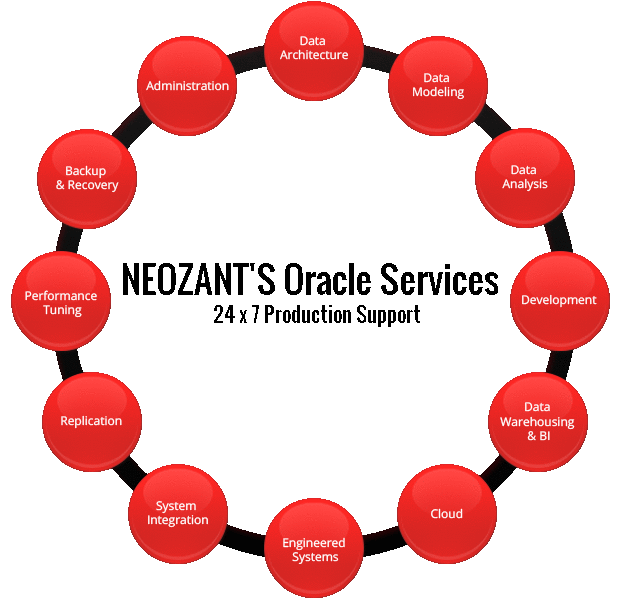
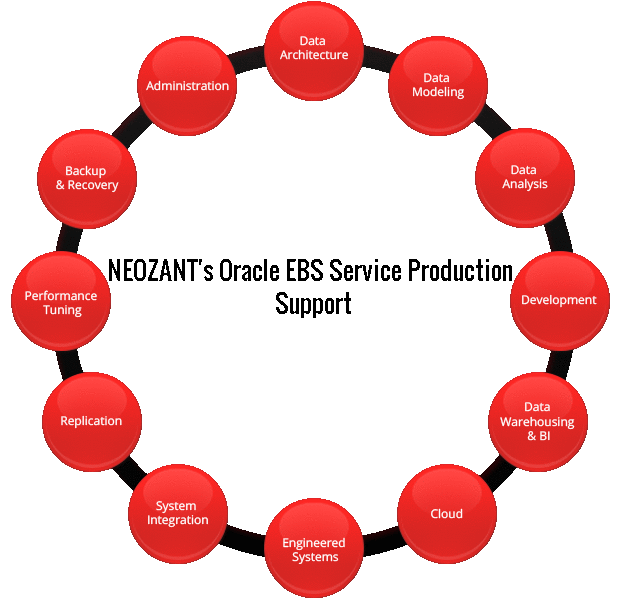
Changes made as suggested by RV

Changed region(s): [[0.1522, 0.4193, 0.8221, 0.5391]]

diff --git a/index.html b/index.html
@@ -371,23 +371,20 @@
 			<div class="carousel-inner">
 			
 			    <div class="item erp">
-					<img src="jns_assets/banner/slide_erp_edited.png" alt="">
+					<img src="jns_assets/banner/slide_erp.png" alt="">
 					<div class="container">
 						<div class="carousel-caption-erp">
-							<h1>NEOZANT helps you Transform Your Business with Oracle Applications.</h1>
+							<h1>We help transform your Oracle E-Business Suite.</h1>
 							<p class="lead">
-								NEOZANT is delivering ERP solutions for clients using Oracle Applications and provides a complete 
-								Oracle support solution for customers.NEOZANT has experience with all of these facets of 
-								manufacturing in many industries to help clients improve operations.NEOZANT helps the distributor 
-								to make the move smooth and cost effective to Oracle’s powerful Application Solutions
-
+								NEOZANTprovides full-service Oracle Consulting with expertise in delivering Business and Analytics solutions.
+								We leverage the Oracle Toolbox to serve a diverse client-base reach their goals.
 							</p>
 							
 						</div>
 					</div>
 				</div>
 				
-				<div class="item">
+				<!-- <div class="item">
 					<img src="jns_assets/banner/slide_1.png" alt="">
 					<div class="container">
 						<div class="carousel-caption">
@@ -397,7 +394,7 @@
 							</p>
 						</div>
 					</div>
-				</div>
+				</div> -->
 				<div class="item active">
 					<img src="jns_assets/banner/slide_2.png" alt="">
 					<div class="container">
@@ -411,7 +408,7 @@
 						</div>
 					</div>
 				</div>
-				<div class="item">
+				<!-- <div class="item">
 					<img src="jns_assets/banner/slide_3.png" alt="">
 					<div class="container">
 						<div class="carousel-caption">
@@ -422,7 +419,7 @@
 							
 						</div>
 					</div>
-				</div>
+				</div> -->
 			</div>
 			<a class="left carousel-control" href="#our_moto" data-slide="prev" style="color: rgb(82, 71, 71);">‹</a>
 			<a class="right carousel-control" href="#our_moto" data-slide="next" style="color: rgb(82, 71, 71);">›</a>
@@ -439,18 +436,35 @@
 				<div class="row-fluid" >
  
 				<div type="button" class="" data-toggle="collapse" data-target="#demo_1">
-				   <h4> Orcale Based Solutions:NEOZANT provides a complete Oracle support solution for customers
+				   <h4 style="border-style: outset;"> 
+				   
+				   Orcale Based Solutions:NEOZANT provides a complete Oracle support solution for customers
 					<img src="jns_assets/thumbnails/ORACLE_ERP.png" /> </h4>
 				</div>
 				  <div id="demo_1" class="collapse">
 				   <div class="row-fluid">
 					<ul class="thumbnails">
 					
-					<li class="span3">
-							<h4>ERP SOLUTIONS</h4>
-							<a href="#erp_solutions" class="thumbnail"> <img src="jns_assets/thumbnails/ORACLE_ERP.png" /> </a>
+											
+						<li class="span3">
+							<h4>IMPLEMENTATION</h4>
+							<a href="#erp_solutions" class="thumbnail"> <img src="jns_assets/proj12/DesignAndImplementation_size.png" /> </a>
 						</li>
 						
+						<li class="span3">
+							<h4>SUPPORT</h4>
+							<a href="#erp_solutions" class="thumbnail"> <img src="jns_assets/proj12/Customer_support_size.png" /> </a>
+						</li>
+						
+						<li class="span3">
+							<h4>Enterprise Advisory Services</h4>
+							<a href="#erp_solutions" class="thumbnail"> <img src="jns_assets/proj12/advisory_services_size.png" /> </a>
+						</li>
+						
+						<li class="span3">
+							<h4>Business Intelligence Services</h4>
+							<a href="#erp_solutions" class="thumbnail"> <img src="jns_assets/proj12/business_intelligence_size.png" /> </a>
+						</li>
 					</ul>
 					</div>
 				  </div>
@@ -462,7 +476,7 @@
 				<div class="row-fluid">
  
 				<div type="button" class="" data-toggle="collapse" data-target="#demo_2">
-				   <h4> DevOps solutions:Automated Task Scheduler and Tracker 
+				   <h4 style="border-style: outset;"> DevOps solutions:Automated Task Scheduler and Tracker 
 					<img src="jns_assets/thumbnails/DevOps.png" /> </h4>
 				</div>
 				  <div id="demo_2" class="collapse">
@@ -485,7 +499,7 @@
 				<div class="row-fluid">
  
 				<div type="button" class="" data-toggle="collapse" data-target="#demo_3">
-				   <h4> Retail based Inventory and Sales Solution
+				   <h4 style="border-style: outset;"> Retail based Inventory and Sales Solution
 					<img src="jns_assets/thumbnails/retail.png" /> </h4>
 				</div>
 				  <div id="demo_3" class="collapse">
@@ -511,9 +525,9 @@
 				
 				<div class="row-fluid">
  
-				<div type="button" class="" data-toggle="collapse" data-target="#demo_4">
-				   <h4> Gaming: Casual game with user engagement
-					<img src="jns_assets/thumbnails/games.png",float:right/> </h4> 
+				<div type="button" class="" data-toggle="collapse" data-target="#demo_4" style="border-style: outset;">
+				   <h4 > Gaming: Casual game with user engagement
+					<img src="jns_assets/thumbnails/games.png",float:right/>	 </h4> 
 					
 				</div>
 				  <div id="demo_4" class="collapse">
@@ -534,6 +548,11 @@
 							<h4>Jumpin Jack</h4>
 							<a href="#jumpin_jack" class="thumbnail"> <img src="jns_assets/thumbnails/proj_5 - Copy.png" /> </a>
 						</li>
+						<li class="span3">
+							<h4>Multiplayer Game</h4>
+							<a href="#mp_betting_game" class="thumbnail"> <img src="jns_assets/thumbnails/proj_4.png" /> </a>
+						</li>
+						
 					</ul>
 					</div>
 				  </div>
@@ -544,7 +563,7 @@
 				<div class="row-fluid">
  
 				<div type="button" class="" data-toggle="collapse" data-target="#demo_5" >
-				   <h4> Elearning: eLearning is not the next big thing, it is the now big thing.
+				   <h4 style="border-style: outset;"> Elearning: eLearning is not the next big thing, it is the now big thing.
 					<img src="jns_assets/thumbnails/elearning.png" /> </h4>
 				</div>
 				  <div id="demo_5" class="collapse">
@@ -589,7 +608,7 @@
 						
 						
 						<li class="span3" style="width:46%">
-						<h2 class="featurette-heading">One unified business management suite, encompassing ERP/Financials, CRM and ecommerce  <span class="muted"><a href=""> - The NeoZant Solution.</a></span></h2>
+						<h2 class="featurette-heading">One unified business management suite, encompassing ERP/Financials, CRM and ecommerce -<span class="muted"><a href="#erp_solutions"> The NeoZant Solution.</a></span></h2>
 				<p class="lead">
 					NEOZANT is delivering ERP solutions for clients using Oracle Applications and provides a complete Oracle support solution for customers. <br>
                     NEOZANT has experience with all of these facets of manufacturing in many industries to help clients improve operations.<br>
@@ -605,33 +624,149 @@
 
 			</div>
 
-			<hr class="featurette-divider">
+			<!-- CHANGES  -->
 			
 			
 			<div id ="erp_solutions" class="featurette">
-				<img class="featurette-image pull-left" src="jns_assets/proj12/oracle_suport.png">
-				<h2 class="featurette-heading">Neozant's Oracle Services<span class="muted"><br></h2>
+			
+			
+				<!-- img class="featurette-image pull-left" src="jns_assets/proj12/oracle_suport.png"-->
+				
+				<h2 class="featurette-heading">Solutions and support for companies using Oracle EBS provided by NEOZANT<span class="muted"><br></h2>
 				<p class="lead">
-					<dl>
-					  <dt>Oracle Implementation Services </dt>
-					  <dd>- Enterprise Resource Planning</dd>
-					  <dd>- Supply Chain Management</dd>
-					  
-					  <dt>Upgrades & Migrations</dt>
-					  <dd>- ERP Upgrades</dd>
-					  <dd>- Solving the Mechanical Upgrade</dd>
-					  <dd>- Additional Value from an Upgrade</dd>
-					  
-					  <dt>Support</dt>
-					  <dd>- Neozant provides a complete Oracle support solution for customers using a dedicated support </dd>
-					  
-					  <dt>Consulting & Advisory Services</dt>
-					  <dd>- Network architcture</dd>
-					  <dd>- Identify performance bottlenecks</dd>
-					  <dd>- Assess existing BI setup </dd>
-					  
-					</dl>
-                           
+				
+				<div class="row-fluid">
+ 
+				<div type="button" class="" data-toggle="collapse" data-target="#oracle_implementation">
+				   <h4 style="border-style: outset;"> Implementation
+					<!-- <img src="jns_assets/proj12/DesignAndImplementation_small.png" /> --> </h4>
+				</div>
+				  <div id="oracle_implementation" class="collapse">
+				   <div class="row-fluid">
+					<ul class="thumbnails">
+					
+					<h4>Neozant's proven implementation methodology based on robust foundation for delivering successful process and software implementations.</h4>
+					<a href="#erp_solutions" class="thumbnail"> <img src="jns_assets/proj12/Oracle_Implemention.png" /> </a>
+					<!-- <li class="span3">
+							<h4>Neozant's proven implementation methodology based on robust foundation for delivering successful process and software implementations.</h4>
+							<a href="#erp_solutions" class="thumbnail"> <img src="jns_assets/proj12/Oracle_Implemention.png" /> </a>
+						</li> -->
+						
+					</ul>
+					</div>
+				  </div>
+				  
+				  
+				</div>
+				
+				<div class="row-fluid">
+ 
+				<div type="button" class="" data-toggle="collapse" data-target="#oracle_support">
+				   <h4 style="border-style: outset;"> Support 
+					<!-- <img src="jns_assets/proj12/Customer_support_small.png" /> --> </h4>
+				</div>
+				  <div id="oracle_support" class="collapse">
+				   <div class="row-fluid">
+					<ul class="thumbnails">
+					
+					<!-- <li class="span3"> -->
+							<h4>Neozant provides a complete Oracle support solution using a dedicated support team.Highlights of our Managed Service Agreements
+							<ul>
+									<li>	Remote Support and Upgrades</li>
+									<li>	Road-Mapping Assistance</li>
+									<li>	Patching and Release Management</li>
+									<li>	Project Management</li>
+									<li>	Application Effectiveness Reviews</li>
+									<li>	Solution Design and Configuration</li>
+									<li>	Functional Training</li>
+									<li>	Oracle SR Management</li>
+									<li>	Staff Augmentation</li>
+									
+							</ul>		
+							</h4>
+							<a href="#erp_solutions" class="thumbnail"> <img src="jns_assets/proj12/oracle_suport.png" /> </a>
+						<!-- </li> -->
+						
+					</ul>
+					</div>
+				  </div>
+				  
+				  
+				</div>
+				
+					
+					
+				<div class="row-fluid">
+ 
+				<div type="button" class="" data-toggle="collapse" data-target="#oracle_advisory">
+				   <h4 style="border-style: outset;"> Enterprise Advisory Services        
+					<!-- <img src="jns_assets/proj12/advisory_services_small.png" /> --> </h4>
+				</div>
+				  <div id="oracle_advisory" class="collapse">
+				   <div class="row-fluid">
+					<ul class="thumbnails">
+					
+					<!-- <li class="span3"> -->
+							<h4>Neozant provides a complete Oracle support solution using a dedicated support team.Highlights of our Managed Service Agreements
+							<ul>
+									<li>	Financial Reporting</li>
+									<li>	Planning Budgeting Forecasting </li>
+									<li>	Health checks</li>
+									<li>	Performance Tuning</li>
+									<li>	Periodic health check</li>
+									<li>	Critical patch updates</li>
+									<li>	Suggest enhancements</li>
+									
+									
+							</ul>		
+							</h4>
+							<a href="#erp_solutions" class="thumbnail"> <img src="jns_assets/proj12/neozant_service_flow.png" /> </a>
+						<!-- </li> -->
+						
+					</ul>
+					</div>
+				  </div>
+				  
+				  
+				</div>
+				
+				
+				<div class="row-fluid">
+ 
+				<div type="button" class="" data-toggle="collapse" data-target="#business_intelligence">
+				   <h4 style="border-style: outset;" > Business Intelligence Services 
+					<!-- <img src="jns_assets/proj12/business_intelligence_small.png" />  --></h4>
+				</div>
+				  <div id="business_intelligence" class="collapse">
+				   <div class="row-fluid">
+					<ul class="thumbnails">
+					
+					<!-- <li class="span3"> -->
+					<h4>
+					            <ul>
+									<li>Installation of OBIEE / OBIA </li>
+									<li>BI Support and Maintenance</li>
+									<li>End-to-end data warehouse support and maintenance</li>
+									<li>Reports development as per business request</li>
+									<li>Enterprise-wide security strategy</li>
+									<li>Data monitoring</li>
+									<li>Data maintenance routines</li>
+									<li>BI Tool Administration</li>
+									<li>BI Release management</li>
+									<li>Automated Report Production (Email/FTP)</li>
+								</ul>	
+							</h4>
+							<a href="#erp_solutions" class="thumbnail"> <img src="jns_assets/proj12/buiness_intelligence_trans.png" /> </a>
+						<!-- </li> -->
+						
+					</ul>
+					</div>
+				  </div>
+				  
+				  
+				</div>
+				
+					
 					
 					
 				</p>
@@ -640,7 +775,7 @@
 				<a href="#home">Back To Home </a>
 			</div>
 			
-			
+			<!-- CHANGES  -->
 			
 			
              <hr class="featurette-divider">
